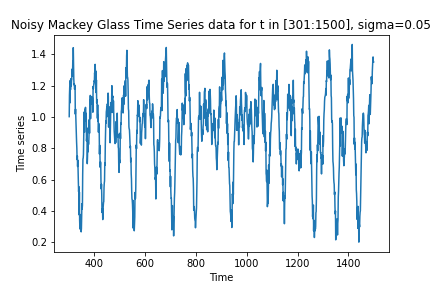
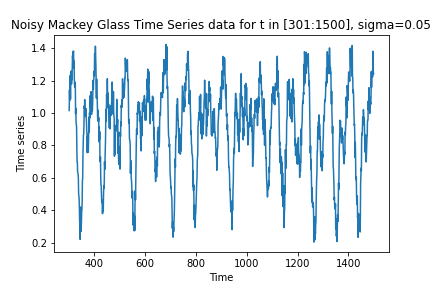
latest changes

diff --git a/part2/test_noisy.py b/part2/test_noisy.py
@@ -32,7 +32,7 @@ plt.title(
     'Noisy Mackey Glass Time Series data for t in [301:1500], sigma=0.15')
 plt.savefig("images/time_series_noise_15.png")
 #%%
-X_noisy, y_noisy = mg.get_data(True, 0.15)
+X_noisy, y_noisy = mg.get_data(True, 0.05)
 X, y = mg.get_data()
 
 X_train, X_val, X_test = X_noisy[:900], X[900:1000], X[1000:1200]
@@ -65,7 +65,7 @@ plt.xlabel('Time')
 plt.ylabel('Time series')
 plt.title("Test predictions along with the known target values with noisy train data.")
 plt.legend()
-plt.savefig("images/noisy15.png")
+plt.savefig("images/noisy005.png")
 #%%
 # HYPERPARAM TUNING
 importlib.reload(hts)

diff --git a/part2/hparam_tuning.py b/part2/hparam_tuning.py
@@ -3,7 +3,7 @@ import tensorflow as tf
 tfk = tf.keras
 tfkl = tfk.layers
 
-HP_NH1 = hp.HParam('nh1', hp.Discrete([4, 5]))
+HP_NH1 = hp.HParam('nh1', hp.Discrete([3,4, 5]))
 HP_NH2 = hp.HParam('nh2', hp.Discrete([2, 4, 6]))
 HP_LAMBDA = hp.HParam('lambda', hp.Discrete([0.001, 0.01, 0.1]))
 HP_LR = hp.HParam('lr', hp.Discrete(

diff --git a/part2/dataset.py b/part2/dataset.py
@@ -19,6 +19,7 @@ class MackeyGlass():
             self.x.append(self.x[t-1] + 0.2*x25/(1+x25**10) - 0.1*self.x[t-1])
         if noise:
             noise = np.random.normal(0, sigma , self.end+6)
+            
             self.x = self.x + noise
         return self.x 
 
